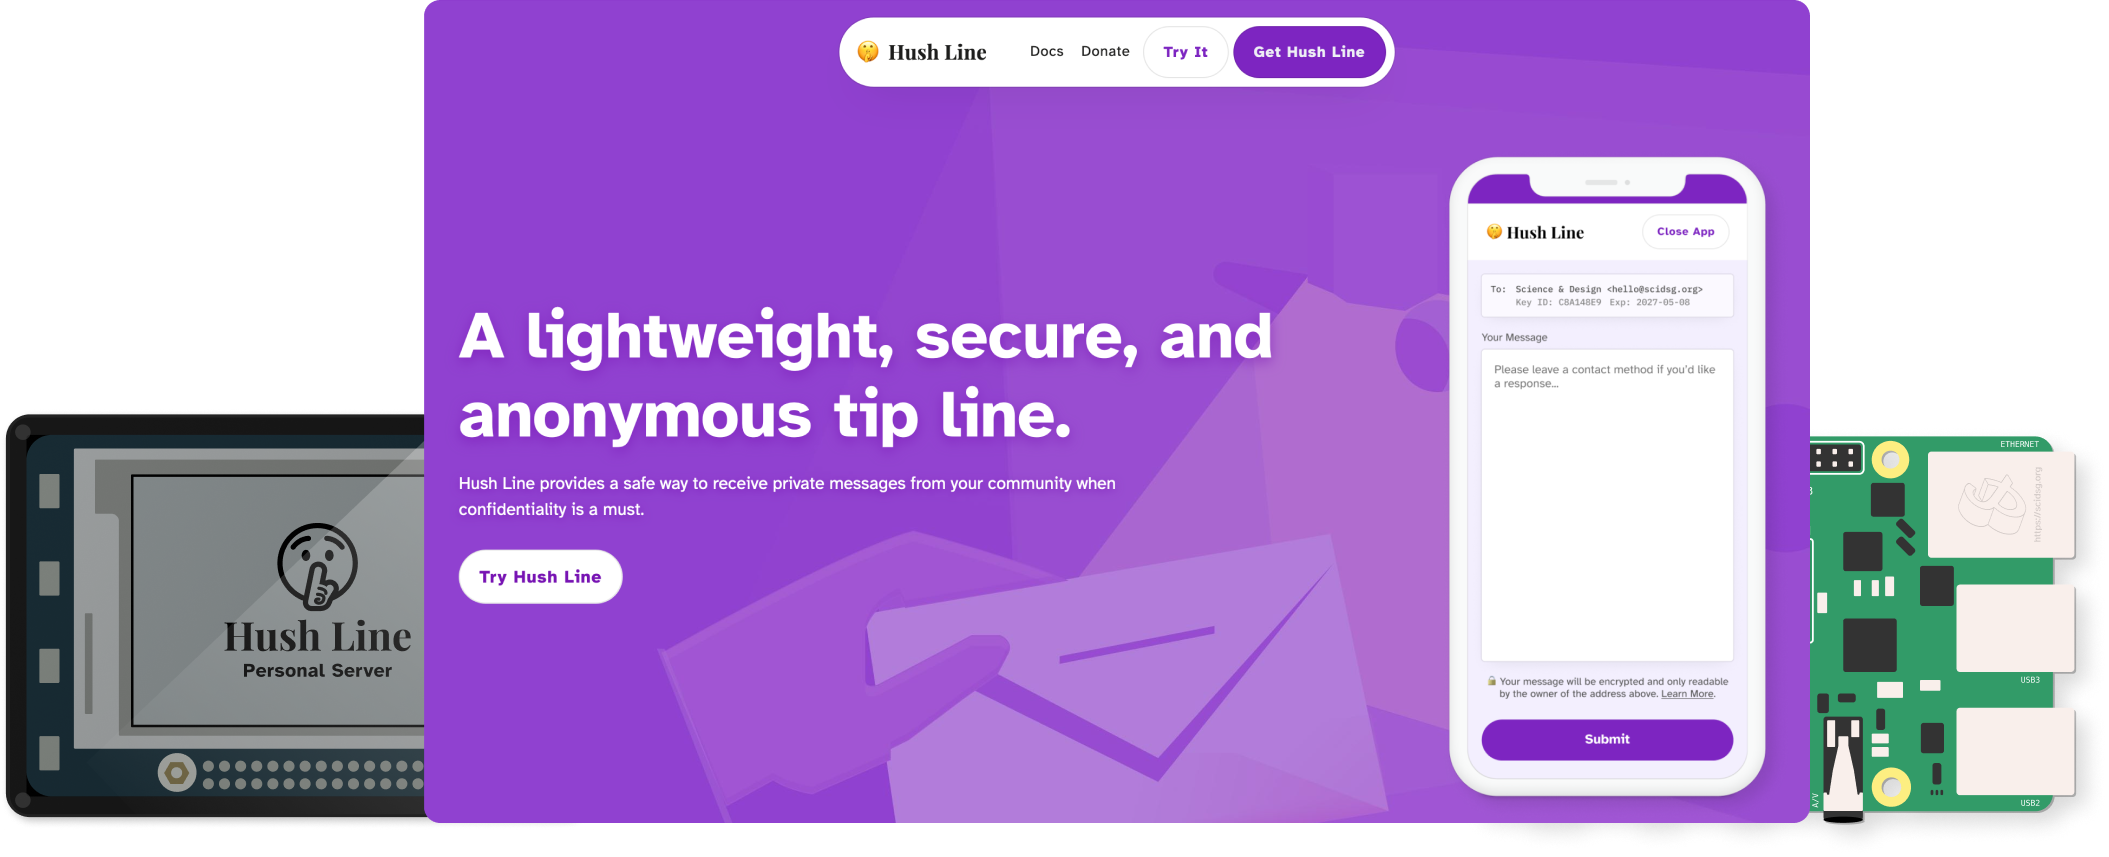
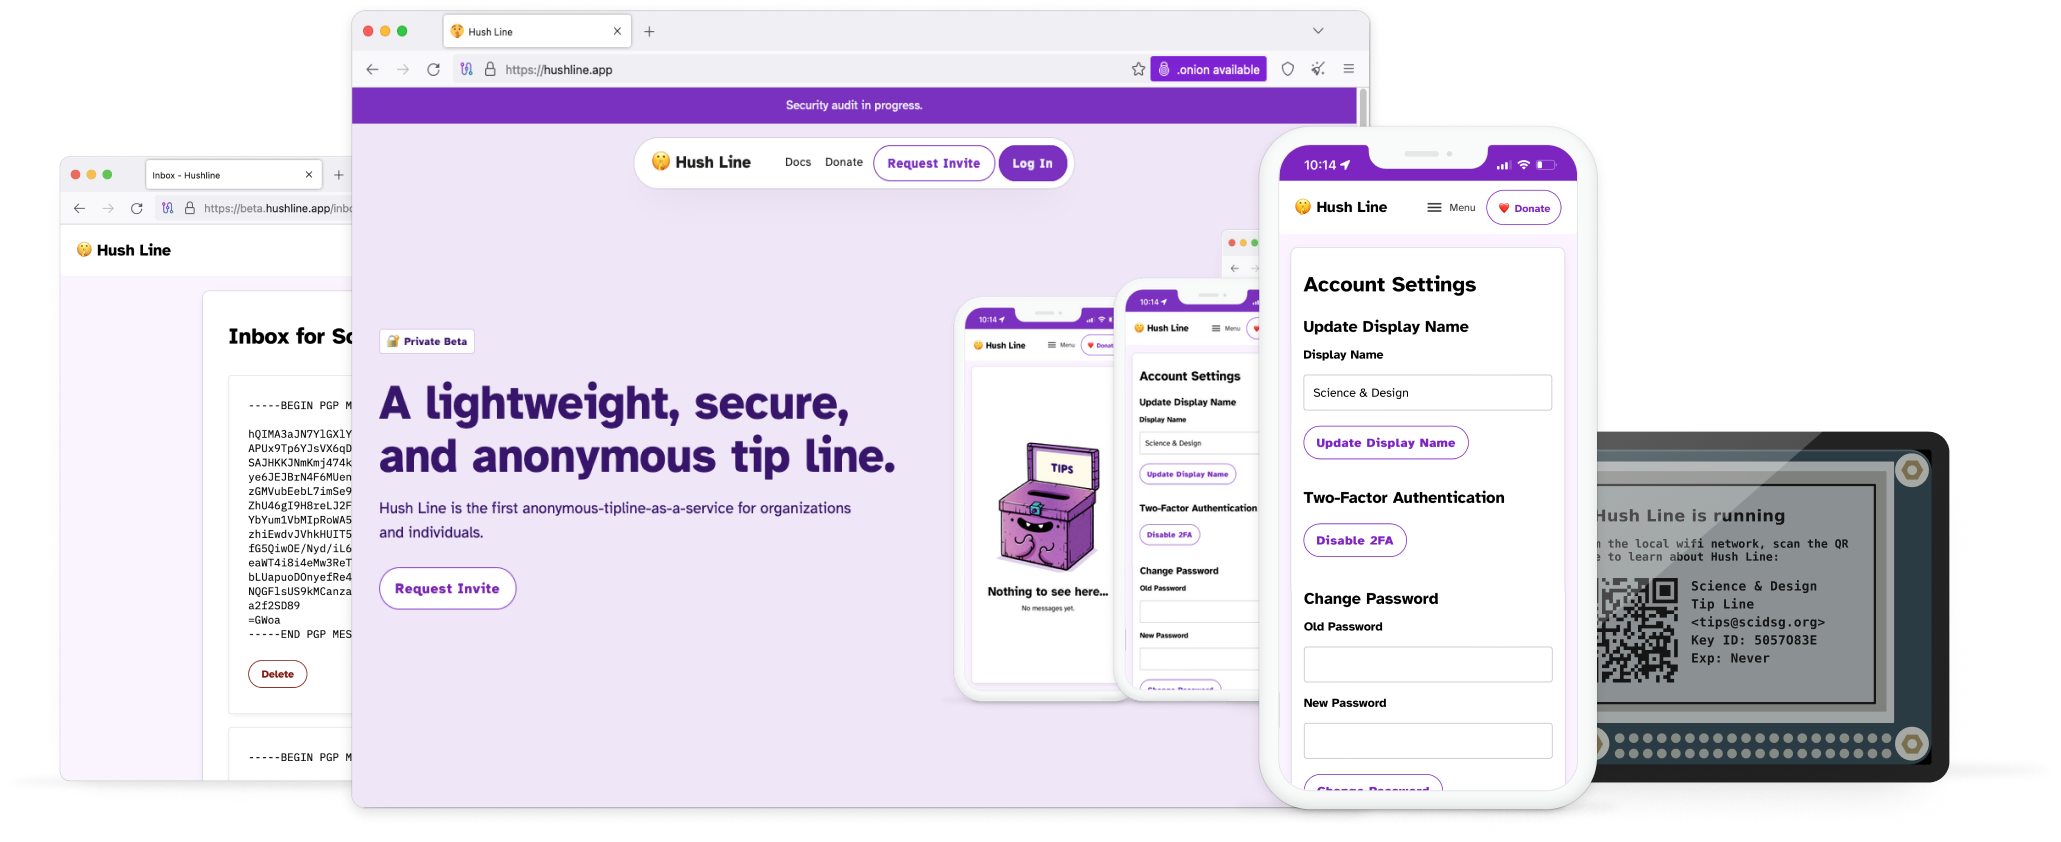
add projects

diff --git a/index.html b/index.html
@@ -102,12 +102,22 @@ W3C/WHATWG Standards, etc - please consider contributing 🙏 -->
 				<div class="group featureGroup">
 					<div class="description">
 						<h4>Hush Line</h4>
-						<p>A self-hosted anonymous tip line for journalists and newsrooms, educators and school administrators, and employers and investors.</p>
+						<p>The FIRST anonymous-tip-line-as-a-service for individuals and organizations.</p>
 						<div class="btnGrp">
-							<a role="button" class="btn btnLrg" href="https://try.hushline.app" target="_blank" rel="noopener noreferrer">Try Hush Line</a>
+							<a role="button" class="btn btnLrg" href="https://beta.hushline.app/submit_message/hushline-beta" target="_blank" rel="noopener noreferrer">Request Invite</a>
 							<a role="button" class="btn btnLrg" href="https://hushline.app" target="_blank" rel="noopener noreferrer">Learn More</a>
 						</div>
 						<img src="images/hushline/cover.png" alt="Homepage and app for Hush Line.">
+					</div>
+				</div>
+				<div class="group featureGroup">
+					<div class="description">
+						<h4>Mastodon Scheduler</h4>
+						<p>Schedule your posts to Mastodon so your accounts stay fresh.</p>
+						<div class="btnGrp">
+							<a role="button" class="btn btnLrg" href="https://mastodon-scheduler.app" target="_blank" rel="noopener noreferrer">Learn More</a>
+						</div>
+						<img src="images/mastodon-scheduler/cover.png" alt="Homepage and app for Mastodon Scheduler.">
 					</div>
 				</div>
 				<div class="group featureGroup">
